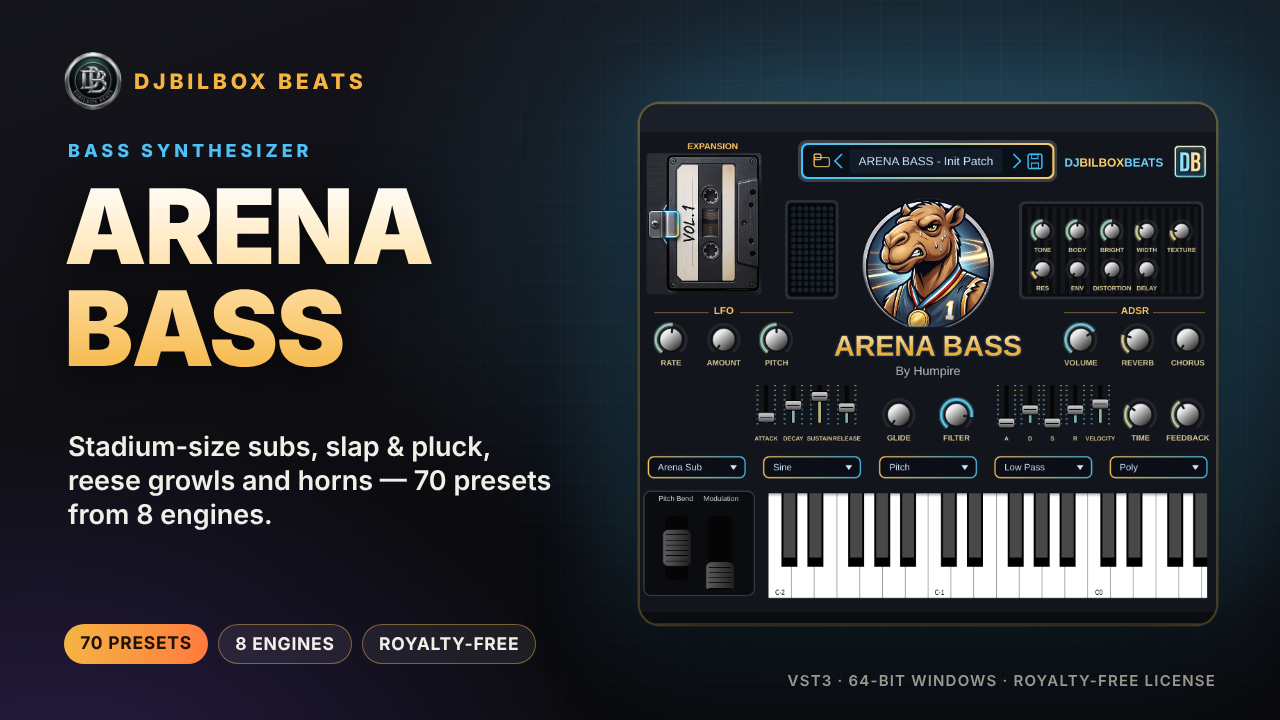
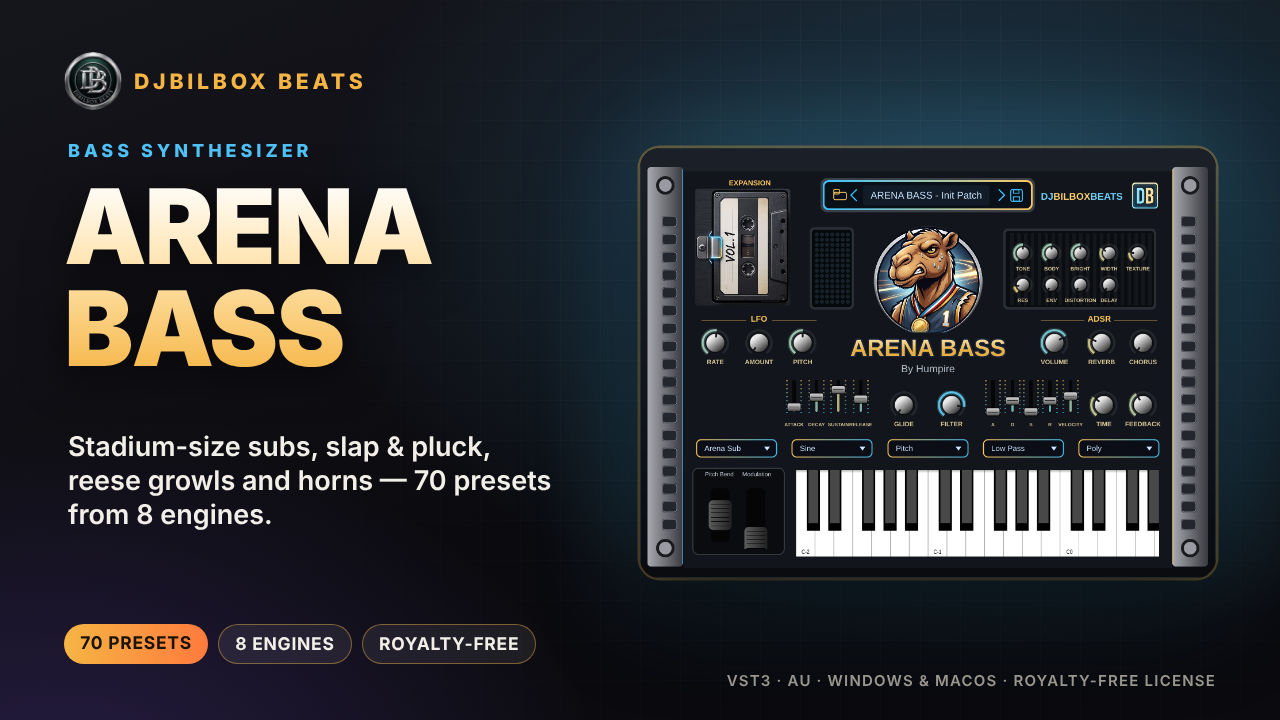
Visuels promo : plus de rognage de la capture, pied de page Windows+macOS [skip ci]
Claude-Session: https://claude.ai/code/session_01AyFy7CAoq6FA8MmMovPrRT

Changed region(s): [[0.5, 0.1222, 0.9688, 0.8861], [0.625, 0.9167, 0.7812, 0.9778], [0.5625, 0.9167, 0.5938, 0.9472]]

diff --git a/MARKETING/templates/product.html b/MARKETING/templates/product.html
@@ -13,7 +13,7 @@
   .brand { position:absolute; display:flex; align-items:center; gap:calc(var(--u)*10); font-weight:800; letter-spacing:calc(var(--u)*3); color:var(--amber); font-size:calc(var(--u)*17); }
   .brand img { height:calc(var(--u)*46); width:auto; border-radius:50%; }
   .shot { position:absolute; border-radius:calc(var(--u)*16); overflow:hidden; box-shadow:0 calc(var(--u)*30) calc(var(--u)*70) rgba(0,0,0,.65), 0 0 0 calc(var(--u)*2) rgba(245,181,68,.35), 0 0 calc(var(--u)*90) color-mix(in srgb, var(--accent) 35%, transparent); background:#000; }
-  .shot img { display:block; width:100%; height:100%; object-fit:cover; object-position:top; }
+  .shot img { display:block; width:100%; height:auto; object-fit:contain; }
   h1 { position:absolute; font-weight:900; line-height:.98; letter-spacing:-.02em; text-transform:uppercase;
     background:linear-gradient(180deg,#fff 0%, #ffe3ad 45%, var(--amber) 100%); -webkit-background-clip:text; background-clip:text; color:transparent; filter:drop-shadow(0 calc(var(--u)*6) calc(var(--u)*18) rgba(0,0,0,.6)); }
   .tag { position:absolute; color:var(--text); font-weight:600; line-height:1.25; }
@@ -26,12 +26,13 @@
 
   /* ---- 600x600 thumbnail ---- */
   body.thumb { --W:600px; --H:600px; --u:1px; }
-  .thumb .brand { left:34px; top:30px; }
-  .thumb .kind { left:36px; top:100px; font-size:13px; }
-  .thumb h1 { left:34px; top:124px; width:532px; font-size:var(--fs,64px); }
-  .thumb .tag { left:36px; top:var(--tagTop,262px); width:520px; font-size:22px; }
-  .thumb .shot { left:34px; right:34px; top:var(--shotTop,330px); height:var(--shotH,196px); }
-  .thumb .badges { left:34px; bottom:26px; }
+  .thumb .brand { left:30px; top:22px; font-size:15px; }
+  .thumb .brand img { height:36px; }
+  .thumb .kind { display:none; }
+  .thumb .tag { display:none; }
+  .thumb .shot { left:34px; width:532px; top:78px; }
+  .thumb h1 { left:34px; top:486px; width:532px; font-size:40px !important; white-space:nowrap; }
+  .thumb .badges { left:34px; bottom:16px; }
   .thumb .foot { display:none; }
 
   /* ---- 1280x720 cover ---- */
@@ -40,7 +41,7 @@
   .cover .kind { left:68px; top:140px; font-size:18px; }
   .cover h1 { left:64px; top:176px; width:520px; font-size:var(--fs,92px); }
   .cover .tag { left:68px; top:var(--tagTop,430px); width:500px; font-size:27px; }
-  .cover .shot { left:640px; top:104px; width:576px; height:var(--shotH,520px); }
+  .cover .shot { left:640px; top:148px; width:576px; }
   .cover .badges { left:64px; bottom:56px; width:540px; }
   .cover .foot { right:64px; bottom:30px; }
 </style></head>

diff --git a/MARKETING/tools/render_assets.js b/MARKETING/tools/render_assets.js
@@ -17,7 +17,7 @@ const esc = s => String(s).replace(/&/g,'&amp;').replace(/</g,'&lt;');
       const html = tpl.replace('{{MODE}}', mode).replace('{{ACCENT}}', p.accent || '#f5b544')
         .replace('{{LOGO}}', logo).replace('{{BRAND}}', esc(p.brand || 'DJBILBOX BEATS')).replace('{{KIND}}', esc(p.kind || '')).replace('{{FS}}', (mode === 'thumb' ? p.fsThumb : p.fsCover) || (mode === 'thumb' ? '64px' : '92px'))
         .replace('{{NAME}}', esc(p.name)).replace('{{TAGLINE}}', esc(p.tagline || '')).replace('{{SHOT}}', shot)
-        .replace('{{BADGES}}', badges).replace('{{FOOT}}', esc(p.foot || 'VST3 · 64-bit Windows · Royalty-free license'));
+        .replace('{{BADGES}}', badges).replace('{{FOOT}}', esc(p.foot || 'VST3 · AU · Windows & macOS · Royalty-free license'));
       const page = await browser.newPage({ viewport: { width: w, height: h }, deviceScaleFactor: 1 });
       const tmp = path.join(outDir, `.tmp-${p.id}-${mode}.html`);
       fs.writeFileSync(tmp, html);
